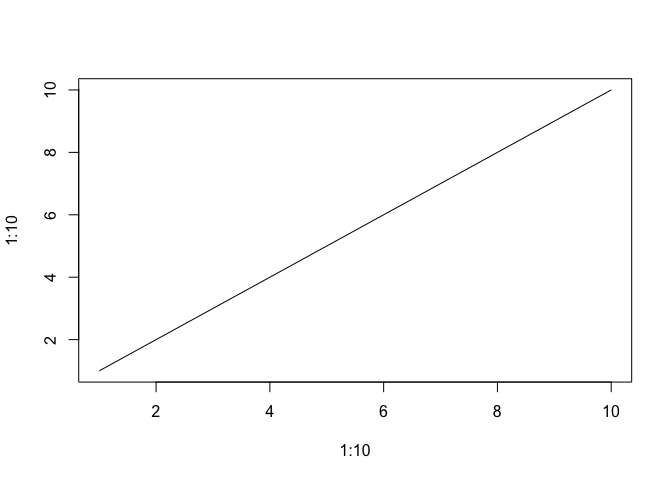
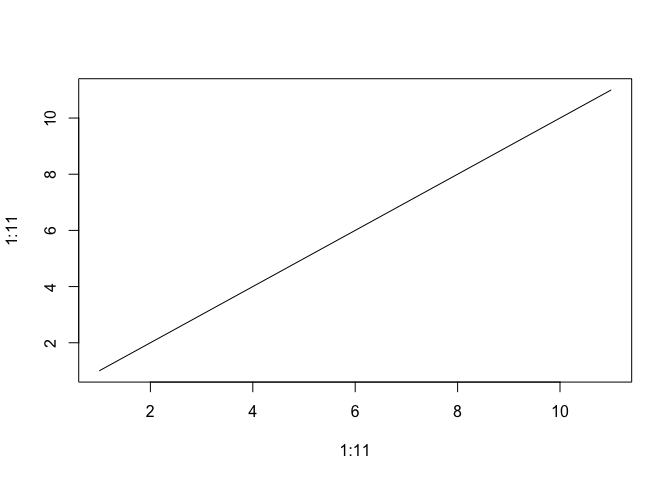
figure to 11

diff --git a/myfirstmarkdown.md b/myfirstmarkdown.md
@@ -10,7 +10,7 @@ let’s try to do this in a separate branch
 this time, i’ll use *secondbranch*
 
 ``` r
-plot(1:10, 1:10, type = "l")
+plot(1:11, 1:11, type = "l")
 ```
 
 ![](myfirstmarkdown_files/figure-gfm/unnamed-chunk-1-1.png)<!-- -->
